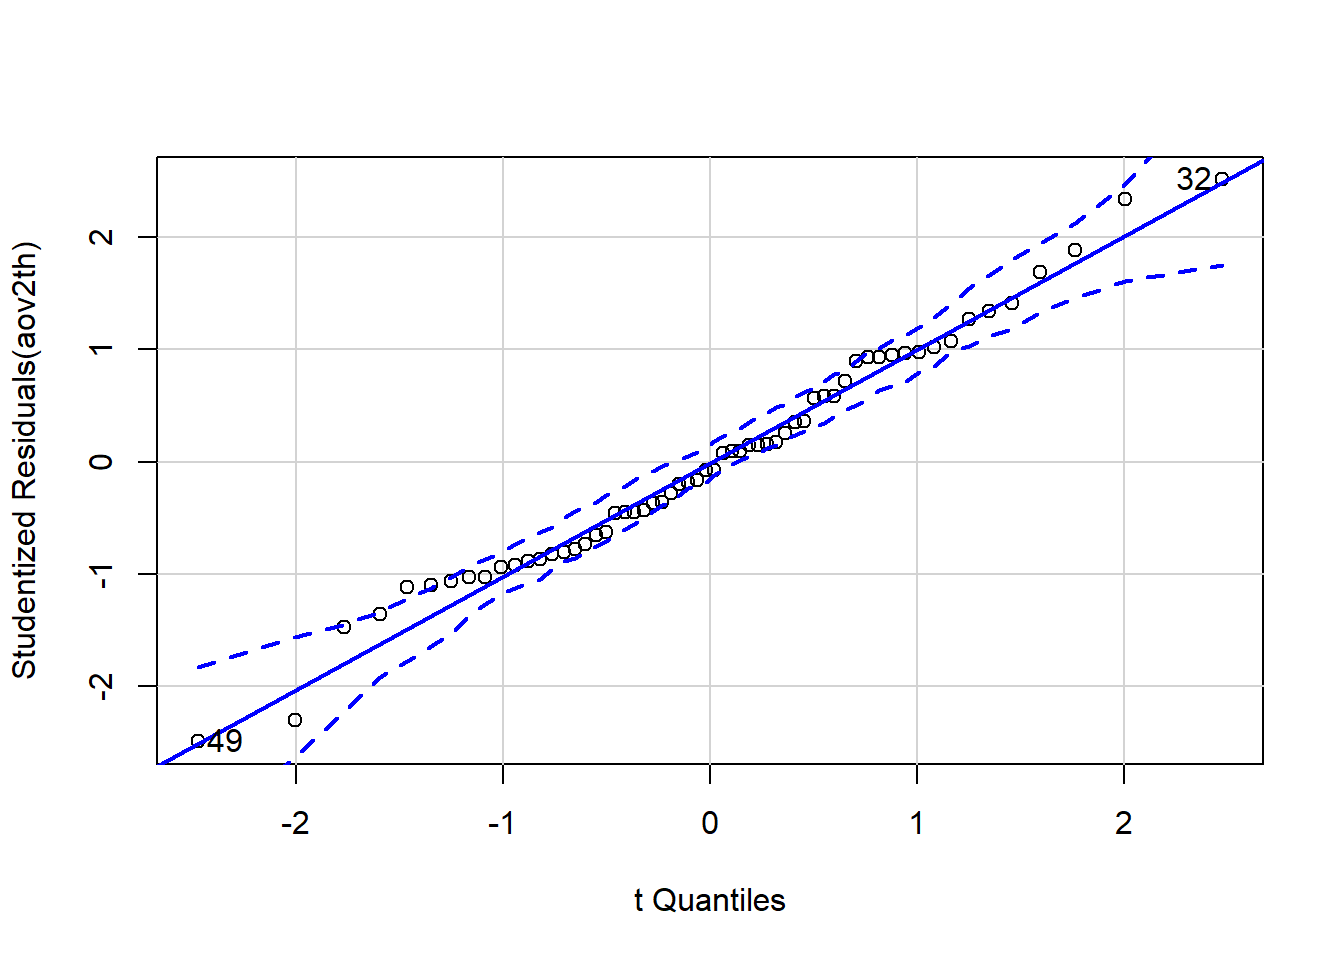
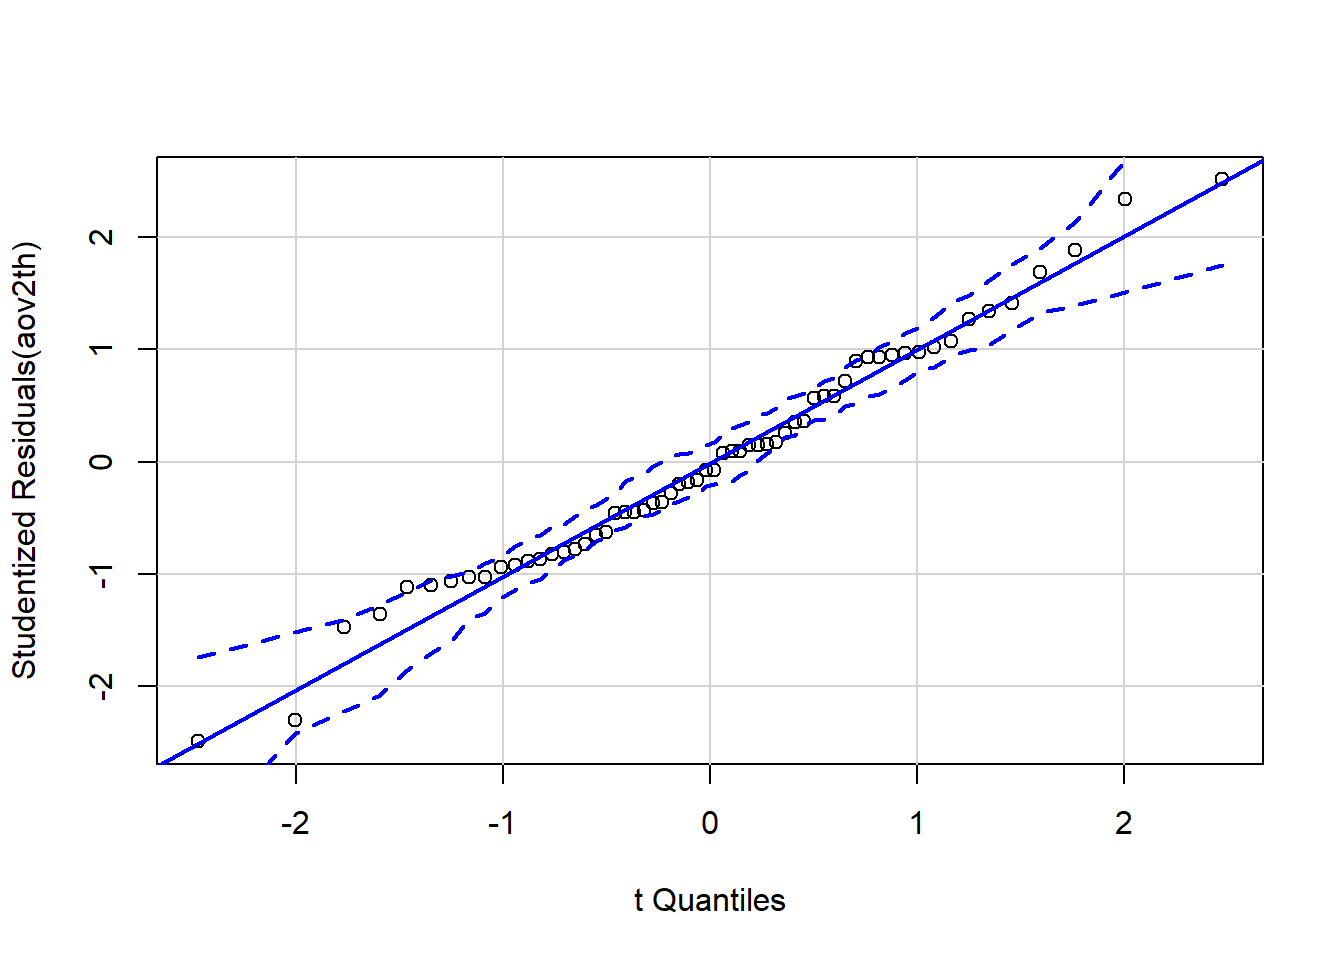
fixed diagnostics file

diff --git a/docs/diagnostics.html b/docs/diagnostics.html
@@ -322,7 +322,8 @@ code span.wa { color: #60a0b0; font-weight: bold; font-style: italic; } /* Warni
 <h2 class="anchored" data-anchor-id="constant-variance-assumption">Constant Variance Assumption</h2>
 <p>A key assumption for ANOVA tests is that the error, or residual term, has a constant variance across all factor levels. This is sometimes call homogeneity of variance, or homoscedasticity.</p>
 <p>We explain three ways to check the assumption: rule of thumb when comparing standard deviations for each factor level, a visual assessment of the residual vs.&nbsp;fitted plot, and Levene’s test. These methods may not always agree. You should be aware of the underlying data. Understanding why this assumption is important and how it will affect results when violated will help you decide how to proceed after checking these diagnostics. It is also worth noting that the ANOVA F-test is robust in the face of mild to moderate violation of this assumption.</p>
-<p>We will use the pre-loaded dataset <code>ToothGrowth</code>. To learn more about the dataset, run <code>?ToothGrowth</code> in the console. <code>len</code> will be our response variable, <code>supp</code> is an independent factor, and <code>dose</code> is the other independent factor. We will analyze this a two-way, basic factorial design. Because <code>dose</code> is stored as a numeric variable, we will convert it to a categorical variable and rename it <code>dose_f</code> before including it in the model. <em>Don’t forget to load the</em> <code>tidyverse</code> <em>in order to use</em> <code>mutate()</code>.</p>
+<p>We will use the pre-loaded dataset <code>ToothGrowth</code>. To learn more about the dataset, run <code>?ToothGrowth</code> in the console. <code>len</code> will be our response variable, <code>supp</code> is an independent factor, and <code>dose</code> is the other independent factor. We will analyze this as a two-way, basic factorial design. Because <code>dose</code> is stored as a numeric variable, we will convert it to a categorical variable and rename it <code>dose_f</code> before including it in the model. <em>Don’t forget to load the</em> <code>tidyverse</code> <em>in order to use</em> <code>mutate()</code>.</p>
+<p>The second line in the code below creates an ANOVA model, named <code>aov2th</code>.</p>
 <a href="javascript:showhide('dose_f')">
 <div class="hoverchunk">
 <p><span class="tooltipr"> tg <span class="tooltiprtext">The name you want for your modified dataset</span> </span><span class="tooltipr"> &lt;- <span class="tooltiprtext">The assignment operator. The result to the right of it gets stored in an object specified on the left</span> </span><span class="tooltipr"> ToothGrowth <span class="tooltiprtext">A preloaded dataset in R</span> </span><span class="tooltipr"> |&gt; <span class="tooltiprtext">The result on the left is piped into the first argument of the function on the right</span> </span><span class="tooltipr"> mutate( <span class="tooltiprtext">A tidyverse function to compute a new column for a dataset</span> </span><span class="tooltipr"> dose_f = <span class="tooltiprtext">The name you want to give to the new column</span> </span><span class="tooltipr"> factor( <span class="tooltiprtext">A function to convert a variable from numeric to quantitative</span> </span><span class="tooltipr"> dose <span class="tooltiprtext">A numeric variable in ToothGrowth</span> </span><span class="tooltipr"> )) <span class="tooltiprtext">Functions always end with a closing parenthesis</span> </span><br><span class="tooltipr"> aov2th <span class="tooltiprtext">A name you come up with for your model</span> </span><span class="tooltipr"> &lt;- <span class="tooltiprtext">The assignment operator. The result to the right of it gets stored in an object specified on the left</span> </span><span class="tooltipr"> aov( <span class="tooltiprtext">A function to define the model</span> </span><span class="tooltipr"> len <span class="tooltiprtext">The response, or y, variable in the model. It is numeric.</span> </span><span class="tooltipr"> ~ <span class="tooltiprtext">The ~ is like an equal sign in the model. Items on the left of ~ represent y, on the right you define independent factors (i.e.&nbsp;x’s).</span> </span><span class="tooltipr"> dose_f <span class="tooltiprtext">Column in the tg dataset where doese is stored as a factor</span> </span><span class="tooltipr"> * <span class="tooltiprtext">Crosses two factors. Both simple factors and the interaction factor are included in the model </span> </span><span class="tooltipr"> supp <span class="tooltiprtext">variable with 2 levels of delivery method: orange juice or asorbic acid (vc)</span> </span><span class="tooltipr"> , <span class="tooltiprtext">Seperates multiple input arguments to a function.</span> </span><span class="tooltipr"> data = tg <span class="tooltiprtext">Tell the model that the variable names come from the <code>tg</code> dataset</span> </span><span class="tooltipr"> ) <span class="tooltiprtext">Functions always end with a closing parenthesis</span> </span><br></p>
@@ -353,11 +354,16 @@ code span.wa { color: #60a0b0; font-weight: bold; font-style: italic; } /* Warni
 <!-- Example Code 1 -->
 <a href="javascript:showhide('manual')">
 <div class="hoverchunk">
-<p><span class="tooltipr"> plot( <span class="tooltiprtext">Base R function to create a scatterplot</span> </span><span class="tooltipr"> aov2th$ <span class="tooltiprtext"> Look in the <code>aov2th</code> object for the item named on the right of the <code>$</code></span> </span><span class="tooltipr"> fitted.values <span class="tooltiprtext"> This vector, stored in the <code>aov</code> object, contains the fitted, or predicted, values. </span></span><span class="tooltipr"> , <span class="tooltiprtext">Seperates multiple input arguments to a function</span> </span><span class="tooltipr"> aov2th$ <span class="tooltiprtext">Look in the <code>aov2th</code> object for the item names on the righ tof the <code>$</code></span> </span><span class="tooltipr"> residuals <span class="tooltiprtext">Vector in the <code>aov</code> object that contains model residuals</span> </span><span class="tooltipr"> ) <span class="tooltiprtext">Functions always end with a closing parenthesis</span> </span><br><span class="tooltipr" style="float:right;"> Toggle output <span class="tooltiprtext">Toggle Output.</span> </span></p>
+<p><span class="tooltipr"> plot( <span class="tooltiprtext">Base R function to create a scatterplot</span> </span><span class="tooltipr"> aov2th$ <span class="tooltiprtext"> Look in the <code>aov2th</code> object for the item named on the right of the <code>$</code></span> </span><span class="tooltipr"> fitted.values <span class="tooltiprtext"> This vector, stored in the <code>aov</code> object, contains the fitted, or predicted, values. </span></span><span class="tooltipr"> , <span class="tooltiprtext">Seperates multiple input arguments to a function</span> </span><span class="tooltipr"> aov2th$ <span class="tooltiprtext">Look in the <code>aov2th</code> object for the item names on the right of the <code>$</code></span> </span><span class="tooltipr"> residuals <span class="tooltiprtext">Vector in the <code>aov</code> object that contains model residuals</span> </span><span class="tooltipr"> ) <span class="tooltiprtext">Functions always end with a closing parenthesis</span> </span><br><span class="tooltipr" style="float:right;"> Toggle output <span class="tooltiprtext">Toggle Output.</span> </span></p>
 </div>
 </a><p><a href="javascript:showhide('manual')"></a></p>
 <div id="manual" style="display:show;">
-<p>Note the resulting plot show 6 vertical groupings, one for each factor level combination. (3 does levels x 2 levels of supp = 6 factor level combinations) ::: {.cell} ::: {.cell-output-display} <img src="diagnostics_files/figure-html/unnamed-chunk-4-1.png" class="img-fluid" width="672"> ::: :::</p>
+<p>Note the resulting plot show 6 vertical groupings, one for each factor level combination. (3 dose levels x 2 levels of supp = 6 factor level combinations)</p>
+<div class="cell">
+<div class="cell-output-display">
+<p><img src="diagnostics_files/figure-html/unnamed-chunk-4-1.png" class="img-fluid" width="672"></p>
+</div>
+</div>
 </div>
 <p><br></p>
 <p><strong>Construct the plot with a shortcut</strong></p>
@@ -375,7 +381,12 @@ code span.wa { color: #60a0b0; font-weight: bold; font-style: italic; } /* Warni
 </a><p><a href="javascript:showhide('shortcut1')"></a></p>
 <p><br></p>
 <div id="shortcut1" style="display:show;">
-<p>Ignore the red line on the plot. It does not measure variance and so can be distracting. ::: {.cell} ::: {.cell-output-display} <img src="diagnostics_files/figure-html/unnamed-chunk-6-1.png" class="img-fluid" width="672"> ::: :::</p>
+<p>Ignore the red line on the plot. It does not measure variance and so can be distracting.</p>
+<div class="cell">
+<div class="cell-output-display">
+<p><img src="diagnostics_files/figure-html/unnamed-chunk-6-1.png" class="img-fluid" width="672"></p>
+</div>
+</div>
 </div>
 <p><br></p>
 </section>
@@ -422,7 +433,7 @@ group  5  1.7086 0.1484
 </div>
 </a><p><a href="javascript:showhide('qqshortcut')"></a></p>
 <p><br></p>
-<div id="shortcut1" style="display:show;">
+<div id="qqshortcut" style="display:show;">
 <div class="cell">
 <div class="cell-output-display">
 <p><img src="diagnostics_files/figure-html/unnamed-chunk-9-1.png" class="img-fluid" width="672"></p>
@@ -443,17 +454,14 @@ group  5  1.7086 0.1484
 <!-- Example Code 2 -->
 <a href="javascript:showhide('qqcar')">
 <div class="hoverchunk">
-<p><span class="tooltipr"> car <span class="tooltiprtext">qqPlot comes from the car package. </span> </span><span class="tooltipr"> :: <span class="tooltiprtext">Allows you to reference functions from the package named on the left without having to load the entire package. </span></span><span class="tooltipr"> qqPlot( <span class="tooltiprtext">function to a Q-Q plot from the car package</span> </span><span class="tooltipr"> aov2th, <span class="tooltiprtext">name of the aov object</span> </span><span class="tooltipr"> envelope = <span class="tooltiprtext">Argument to control the formatting for the acceptable region for points</span> </span><span class="tooltipr"> list( <span class="tooltiprtext">There are potentially many arguments to affect the envelope, so they are provided as a list.</span> </span><span class="tooltipr"> style = <span class="tooltiprtext">“filled” shading, boundary “lines”, or none</span> </span><span class="tooltipr"> “lines” <span class="tooltiprtext">designate the acceptable region with lines</span> </span><span class="tooltipr"> )) <span class="tooltiprtext">Functions always end with a closing parenthesis</span> </span><br><span class="tooltipr" style="float:right;"> Toggle output <span class="tooltiprtext">Toggle Output.</span> </span></p>
+<p><span class="tooltipr"> car <span class="tooltiprtext">qqPlot comes from the car package. </span> </span><span class="tooltipr"> :: <span class="tooltiprtext">Allows you to reference functions from the package named on the left without having to load the entire package. </span></span><span class="tooltipr"> qqPlot( <span class="tooltiprtext">function to a Q-Q plot from the car package</span> </span><span class="tooltipr"> aov2th, <span class="tooltiprtext">name of the aov object</span> </span><span class="tooltipr"> envelope = <span class="tooltiprtext">Argument to control the formatting for the acceptable region for points</span> </span><span class="tooltipr"> list( <span class="tooltiprtext">There are potentially many arguments to affect the envelope, so they are provided as a list.</span> </span><span class="tooltipr"> style = <span class="tooltiprtext">“filled” shading, boundary “lines”, or none</span> </span><span class="tooltipr"> “lines” <span class="tooltiprtext">designate the acceptable region with lines</span> </span><span class="tooltipr"> ) <span class="tooltiprtext">Functions always end with a closing parenthesis</span> </span><span class="tooltipr"> , <span class="tooltiprtext">A comma separates the inputs to a function, in this case the qqPlot function</span> </span><span class="tooltipr"> id = FALSE <span class="tooltiprtext">This argument tells R to display the row number of the 2 most extreme vertical values or not.</span> </span><span class="tooltipr"> ) <span class="tooltiprtext">Functions always end with a closing parenthesis</span> </span><br><span class="tooltipr" style="float:right;"> Toggle output <span class="tooltiprtext">Toggle Output.</span> </span></p>
 </div>
 </a><p><a href="javascript:showhide('qqcar')"></a></p>
 <p><br></p>
-<div id="levene" style="display:show;">
+<div id="qqcar" style="display:show;">
 <div class="cell">
 <div class="cell-output-display">
 <p><img src="diagnostics_files/figure-html/unnamed-chunk-11-1.png" class="img-fluid" width="672"></p>
-</div>
-<div class="cell-output cell-output-stdout">
-<pre><code>[1] 32 49</code></pre>
 </div>
 </div>
 </div>
